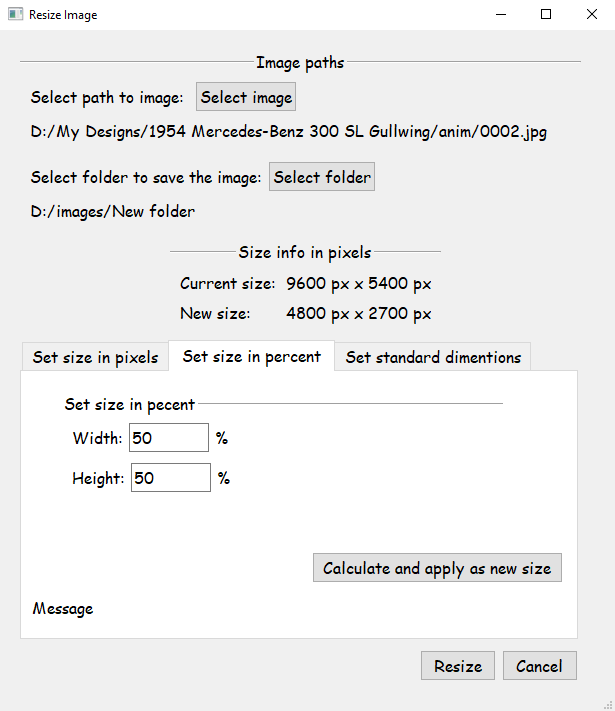
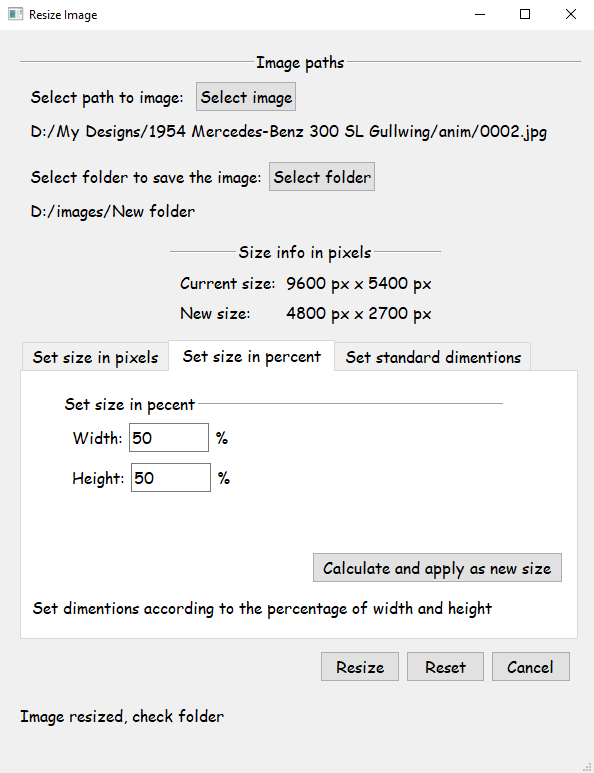
add help messages

diff --git a/App_main/UI/image_resize_ui.py b/App_main/UI/image_resize_ui.py
@@ -12,7 +12,7 @@ from PyQt6 import QtCore, QtGui, QtWidgets
 class Ui_mw_resize_image(object):
     def setupUi(self, mw_resize_image):
         mw_resize_image.setObjectName("mw_resize_image")
-        mw_resize_image.resize(615, 681)
+        mw_resize_image.resize(594, 743)
         font = QtGui.QFont()
         font.setFamily("Comic Sans MS")
         font.setPointSize(12)
@@ -48,9 +48,6 @@ class Ui_mw_resize_image(object):
         self.lb_new_width_height = QtWidgets.QLabel(parent=self.layoutWidget_4)
         self.lb_new_width_height.setObjectName("lb_new_width_height")
         self.hl_new_size.addWidget(self.lb_new_width_height)
-        self.lb_message = QtWidgets.QLabel(parent=self.centralwidget)
-        self.lb_message.setGeometry(QtCore.QRect(40, 690, 621, 31))
-        self.lb_message.setObjectName("lb_message")
         self.gb_image_paths = QtWidgets.QGroupBox(parent=self.centralwidget)
         self.gb_image_paths.setGeometry(QtCore.QRect(20, 20, 561, 181))
         sizePolicy = QtWidgets.QSizePolicy(QtWidgets.QSizePolicy.Policy.Preferred, QtWidgets.QSizePolicy.Policy.Preferred)
@@ -136,6 +133,7 @@ class Ui_mw_resize_image(object):
         self.cb_aspect_ratio.setObjectName("cb_aspect_ratio")
         self.lb_pixel_message = QtWidgets.QLabel(parent=self.tab_pixels)
         self.lb_pixel_message.setGeometry(QtCore.QRect(10, 220, 531, 31))
+        self.lb_pixel_message.setText("")
         self.lb_pixel_message.setObjectName("lb_pixel_message")
         self.pb_calculate_pixels = QtWidgets.QPushButton(parent=self.tab_pixels)
         self.pb_calculate_pixels.setGeometry(QtCore.QRect(290, 180, 251, 31))
@@ -230,7 +228,7 @@ class Ui_mw_resize_image(object):
         self.pb_apply_size.setObjectName("pb_apply_size")
         self.tw_set_size_tabs.addTab(self.tab_dimentions, "")
         self.layoutWidget_11 = QtWidgets.QWidget(parent=self.centralwidget)
-        self.layoutWidget_11.setGeometry(QtCore.QRect(420, 620, 158, 31))
+        self.layoutWidget_11.setGeometry(QtCore.QRect(320, 620, 251, 33))
         self.layoutWidget_11.setObjectName("layoutWidget_11")
         self.hl_resize_buttons = QtWidgets.QHBoxLayout(self.layoutWidget_11)
         self.hl_resize_buttons.setContentsMargins(0, 0, 0, 0)
@@ -238,9 +236,16 @@ class Ui_mw_resize_image(object):
         self.pb_resize = QtWidgets.QPushButton(parent=self.layoutWidget_11)
         self.pb_resize.setObjectName("pb_resize")
         self.hl_resize_buttons.addWidget(self.pb_resize)
+        self.pb_reset = QtWidgets.QPushButton(parent=self.layoutWidget_11)
+        self.pb_reset.setObjectName("pb_reset")
+        self.hl_resize_buttons.addWidget(self.pb_reset)
         self.pb_cancel = QtWidgets.QPushButton(parent=self.layoutWidget_11)
         self.pb_cancel.setObjectName("pb_cancel")
         self.hl_resize_buttons.addWidget(self.pb_cancel)
+        self.lb_main_window = QtWidgets.QLabel(parent=self.centralwidget)
+        self.lb_main_window.setGeometry(QtCore.QRect(20, 670, 561, 31))
+        self.lb_main_window.setText("")
+        self.lb_main_window.setObjectName("lb_main_window")
         mw_resize_image.setCentralWidget(self.centralwidget)
         self.statusbar = QtWidgets.QStatusBar(parent=mw_resize_image)
         self.statusbar.setObjectName("statusbar")
@@ -258,10 +263,7 @@ class Ui_mw_resize_image(object):
         self.lb_current_width_height.setText(_translate("mw_resize_image", "width x height"))
         self.lb_new_size.setText(_translate("mw_resize_image", "New size:"))
         self.lb_new_width_height.setText(_translate("mw_resize_image", "width x height"))
-        self.lb_message.setText(_translate("mw_resize_image", "Message"))
         self.gb_image_paths.setTitle(_translate("mw_resize_image", "Image paths"))
-        self.lb_image_path.setText(_translate("mw_resize_image", "TextLabel"))
-        self.lb_folder_path.setText(_translate("mw_resize_image", "TextLabel"))
         self.lb_save_image_path.setText(_translate("mw_resize_image", "Select folder to save the image:"))
         self.pb_folder_path.setText(_translate("mw_resize_image", "Select folder"))
         self.lb_get_image_path.setText(_translate("mw_resize_image", "Select path to image: "))
@@ -272,7 +274,6 @@ class Ui_mw_resize_image(object):
         self.lb_width_pixels.setText(_translate("mw_resize_image", "Width:"))
         self.lb_width_px.setText(_translate("mw_resize_image", "px"))
         self.cb_aspect_ratio.setText(_translate("mw_resize_image", "keep aspect ratio (proportional)"))
-        self.lb_pixel_message.setText(_translate("mw_resize_image", "Message"))
         self.pb_calculate_pixels.setText(_translate("mw_resize_image", "Calculate and apply as new size"))
         self.tw_set_size_tabs.setTabText(self.tw_set_size_tabs.indexOf(self.tab_pixels), _translate("mw_resize_image", "Set size in pixels"))
         self.gb_new_image_size_in_percent.setTitle(_translate("mw_resize_image", "Set size in pecent"))
@@ -280,7 +281,6 @@ class Ui_mw_resize_image(object):
         self.lb_width_perc.setText(_translate("mw_resize_image", "%"))
         self.lb_height_percent.setText(_translate("mw_resize_image", "Height:"))
         self.lb_height_perc.setText(_translate("mw_resize_image", "%"))
-        self.lb_perc_message.setText(_translate("mw_resize_image", "Message"))
         self.pb_calculate_percent.setText(_translate("mw_resize_image", "Calculate and apply as new size"))
         self.tw_set_size_tabs.setTabText(self.tw_set_size_tabs.indexOf(self.tab_percent), _translate("mw_resize_image", "Set size in percent"))
         self.gb_standard_dimentions.setTitle(_translate("mw_resize_image", "Set standard dimentions (pixels)"))
@@ -293,8 +293,8 @@ class Ui_mw_resize_image(object):
         self.rb_double.setText(_translate("mw_resize_image", "Double dimentions"))
         self.rb_1920_1080.setText(_translate("mw_resize_image", "1920x1080 (FHD)"))
         self.rb_half.setText(_translate("mw_resize_image", "Half dimentions"))
-        self.lb_dims_message.setText(_translate("mw_resize_image", "Message"))
         self.pb_apply_size.setText(_translate("mw_resize_image", "Apply as new size"))
         self.tw_set_size_tabs.setTabText(self.tw_set_size_tabs.indexOf(self.tab_dimentions), _translate("mw_resize_image", "Set standard dimentions"))
         self.pb_resize.setText(_translate("mw_resize_image", "Resize"))
+        self.pb_reset.setText(_translate("mw_resize_image", "Reset"))
         self.pb_cancel.setText(_translate("mw_resize_image", "Cancel"))

diff --git a/App_main/image_resizer.py b/App_main/image_resizer.py
@@ -1,5 +1,6 @@
 import os
 import sys
+from time import sleep
 
 import PyQt6.QtWidgets as qtw
 from PIL import Image
@@ -24,6 +25,7 @@ class ImageResizer(qtw.QMainWindow, Ui_mw_resize_image):
         self.pb_apply_size.clicked.connect(self.standard_dimentions_setup)
         
         self.pb_resize.clicked.connect(self.resize_image)
+        self.pb_reset.clicked.connect(self.reset)
         self.pb_cancel.clicked.connect(self.close)
     
     def path_to_image(self):
@@ -54,6 +56,9 @@ class ImageResizer(qtw.QMainWindow, Ui_mw_resize_image):
                     f'{self.le_width_pixels.text()} px x {new_height} px')
                 self.new_im_width = int(self.le_height_pixels.text())
                 self.new_im_height = new_height
+                self.lb_pixel_message.setText(
+                    'Set proportional dimentions according to the width'
+                    )
             
             if len(self.le_height_pixels.text()):
                 new_width = int(self.le_height_pixels.text())\
@@ -63,6 +68,9 @@ class ImageResizer(qtw.QMainWindow, Ui_mw_resize_image):
                     f'{new_width} px x {self.le_height_pixels.text()} px')
                 self.new_im_width = new_width
                 self.new_im_height = int(self.le_height_pixels.text())
+                self.lb_pixel_message.setText(
+                    'Set proportional dimentions according to the height'
+                    )
         else:
             if len(self.le_width_pixels.text()) \
                 and len(self.le_height_pixels.text()):
@@ -70,6 +78,9 @@ class ImageResizer(qtw.QMainWindow, Ui_mw_resize_image):
                     f'{self.le_width_pixels.text()} px x {self.le_height_pixels.text()} px')
                 self.new_im_width = int(self.le_width_pixels.text())
                 self.new_im_height = int(self.le_height_pixels.text())
+                self.lb_pixel_message.setText(
+                    'Set dimentions according to the width and the height'
+                    )
             else:
                 self.lb_pixel_message.setText(
                     'Both dimentions have to be filled in')
@@ -86,6 +97,9 @@ class ImageResizer(qtw.QMainWindow, Ui_mw_resize_image):
             )
             self.new_im_width = new_width
             self.new_im_height = new_height
+            self.lb_perc_message.setText(
+                    'Set dimentions according to the percentage of width and height'
+                    )
         else:
             self.lb_perc_message.setText('Both dimentions have to be filled in')
     
@@ -93,30 +107,46 @@ class ImageResizer(qtw.QMainWindow, Ui_mw_resize_image):
         rb = self._dims_set()
         if self.rb_640_480.isChecked():
             rb(640, 480)
+            self.lb_dims_message.setText('Set width: 640 and height: 480')
         
         elif self.rb_800_600.isChecked():
             rb(800, 600)
+            self.lb_dims_message.setText('Set width: 800 and height: 600')
         
         elif self.rb_1024_768.isChecked():
             rb(1024, 768)
+            self.lb_dims_message.setText('Set width: 1024 and height: 768')
 
         elif self.rb_1280_720.isChecked():
             rb(1280, 720)
+            self.lb_dims_message.setText('Set width: 1280 and height: 720')
 
         elif self.rb_1920_1080.isChecked():
             rb(1920, 1080)
+            self.lb_dims_message.setText('Set width: 1920 and height: 1080')
 
         elif self.rb_3840_2160.isChecked():
             rb(3840, 2160)
+            self.lb_dims_message.setText('Set width: 3840 and height: 2160')
         
         elif self.rb_7680_4320.isChecked():
             rb(7680, 4320)
+            self.lb_dims_message.setText('Set width: 7680 and height: 4320')
 
         elif self.rb_half.isChecked():
-            rb(int(self.im_width//2), int(self.im_height//2))
+            width_half = int(self.im_width//2)
+            heigth_half = int(self.im_height//2)
+            rb(width_half, heigth_half)
+            self.lb_dims_message.setText(
+                'Set width: {} and height: {}'.format(width_half, heigth_half))
 
         elif self.rb_double.isChecked():
-            rb(self.im_width*2, self.im_height*2)
+            width_double = self.im_width*2
+            height_double = self.im_height*2
+            rb(width_double, height_double)
+            self.lb_dims_message.setText(
+                'Set width: {} and height: {}'.format(width_double, 
+                                                      height_double))
             
         else:
             self.lb_dims_message.setText('Something went wrong, try again')
@@ -143,6 +173,24 @@ class ImageResizer(qtw.QMainWindow, Ui_mw_resize_image):
             img.save(
                 os.path.join(self.save_path, img_name)
             )
+        
+        self.lb_main_window.setText('Image resized, check folder')
+    
+    def reset(self):
+        self.lb_image_path.clear()
+        self.lb_folder_path.clear()
+        self.lb_main_window.clear()
+        self.lb_current_width_height.setText('width x height')
+        self.lb_new_width_height.setText('width x height')
+        self.le_width_pixels.clear()
+        self.le_height_pixels.clear()
+        self.le_width_percent.clear()
+        self.le_height_percent.clear()
+        self.cb_aspect_ratio.setChecked(False)
+        self.le_width_percent.clear()
+        self.le_height_percent.clear()
+        self.rb_640_480.setChecked(True)
+        self.lb_dims_message.clear()
 
 
 

diff --git a/README.md b/README.md
@@ -4,9 +4,9 @@ Tool to resize images made with pyqt6 and PIL library in Python 3.87
 
 ## ui examples
 <p align="middle">
-  <img src="" width="250"/>
-  <img src="" width="250"/>
-  <img src="" width="250"/>
+  <img src="https://github.com/piotrekgelert/Image-resizer-tool/blob/main/images/image_resizer_pixels.png" width="30%"/>
+  <img src="https://github.com/piotrekgelert/Image-resizer-tool/blob/main/images/image_resizer_percent.png" width="30%"/>
+  <img src="https://github.com/piotrekgelert/Image-resizer-tool/blob/main/images/image_resizer_standard_dimentions.png" width="30%"/>
 </p>
 
 ### notes
